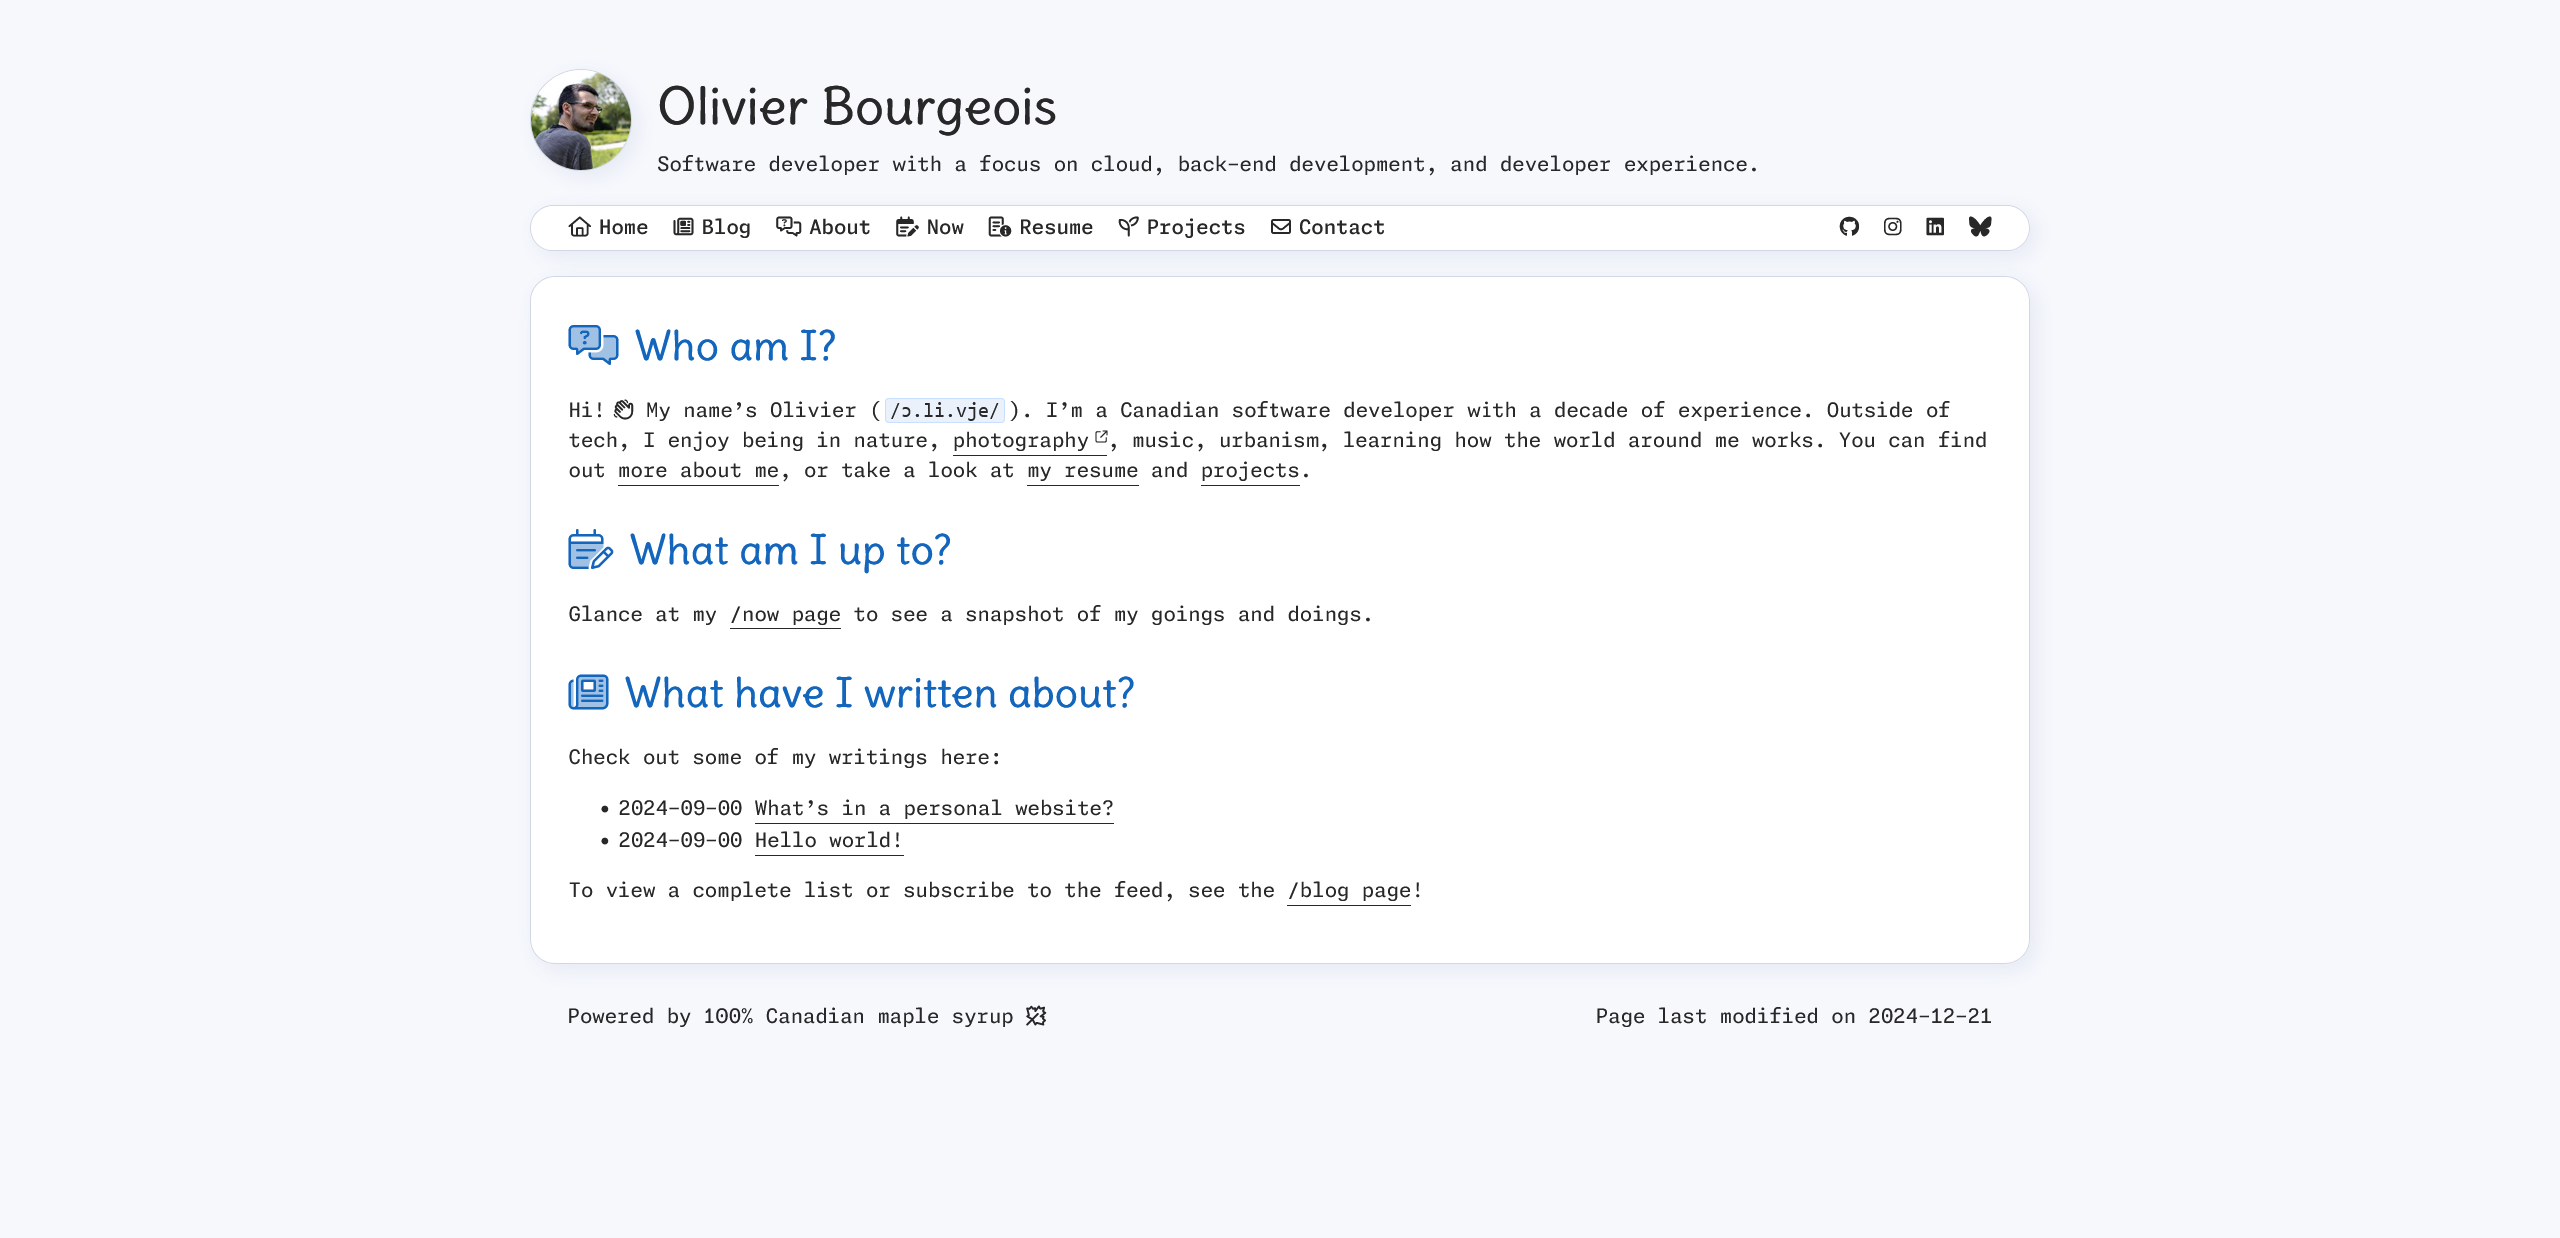
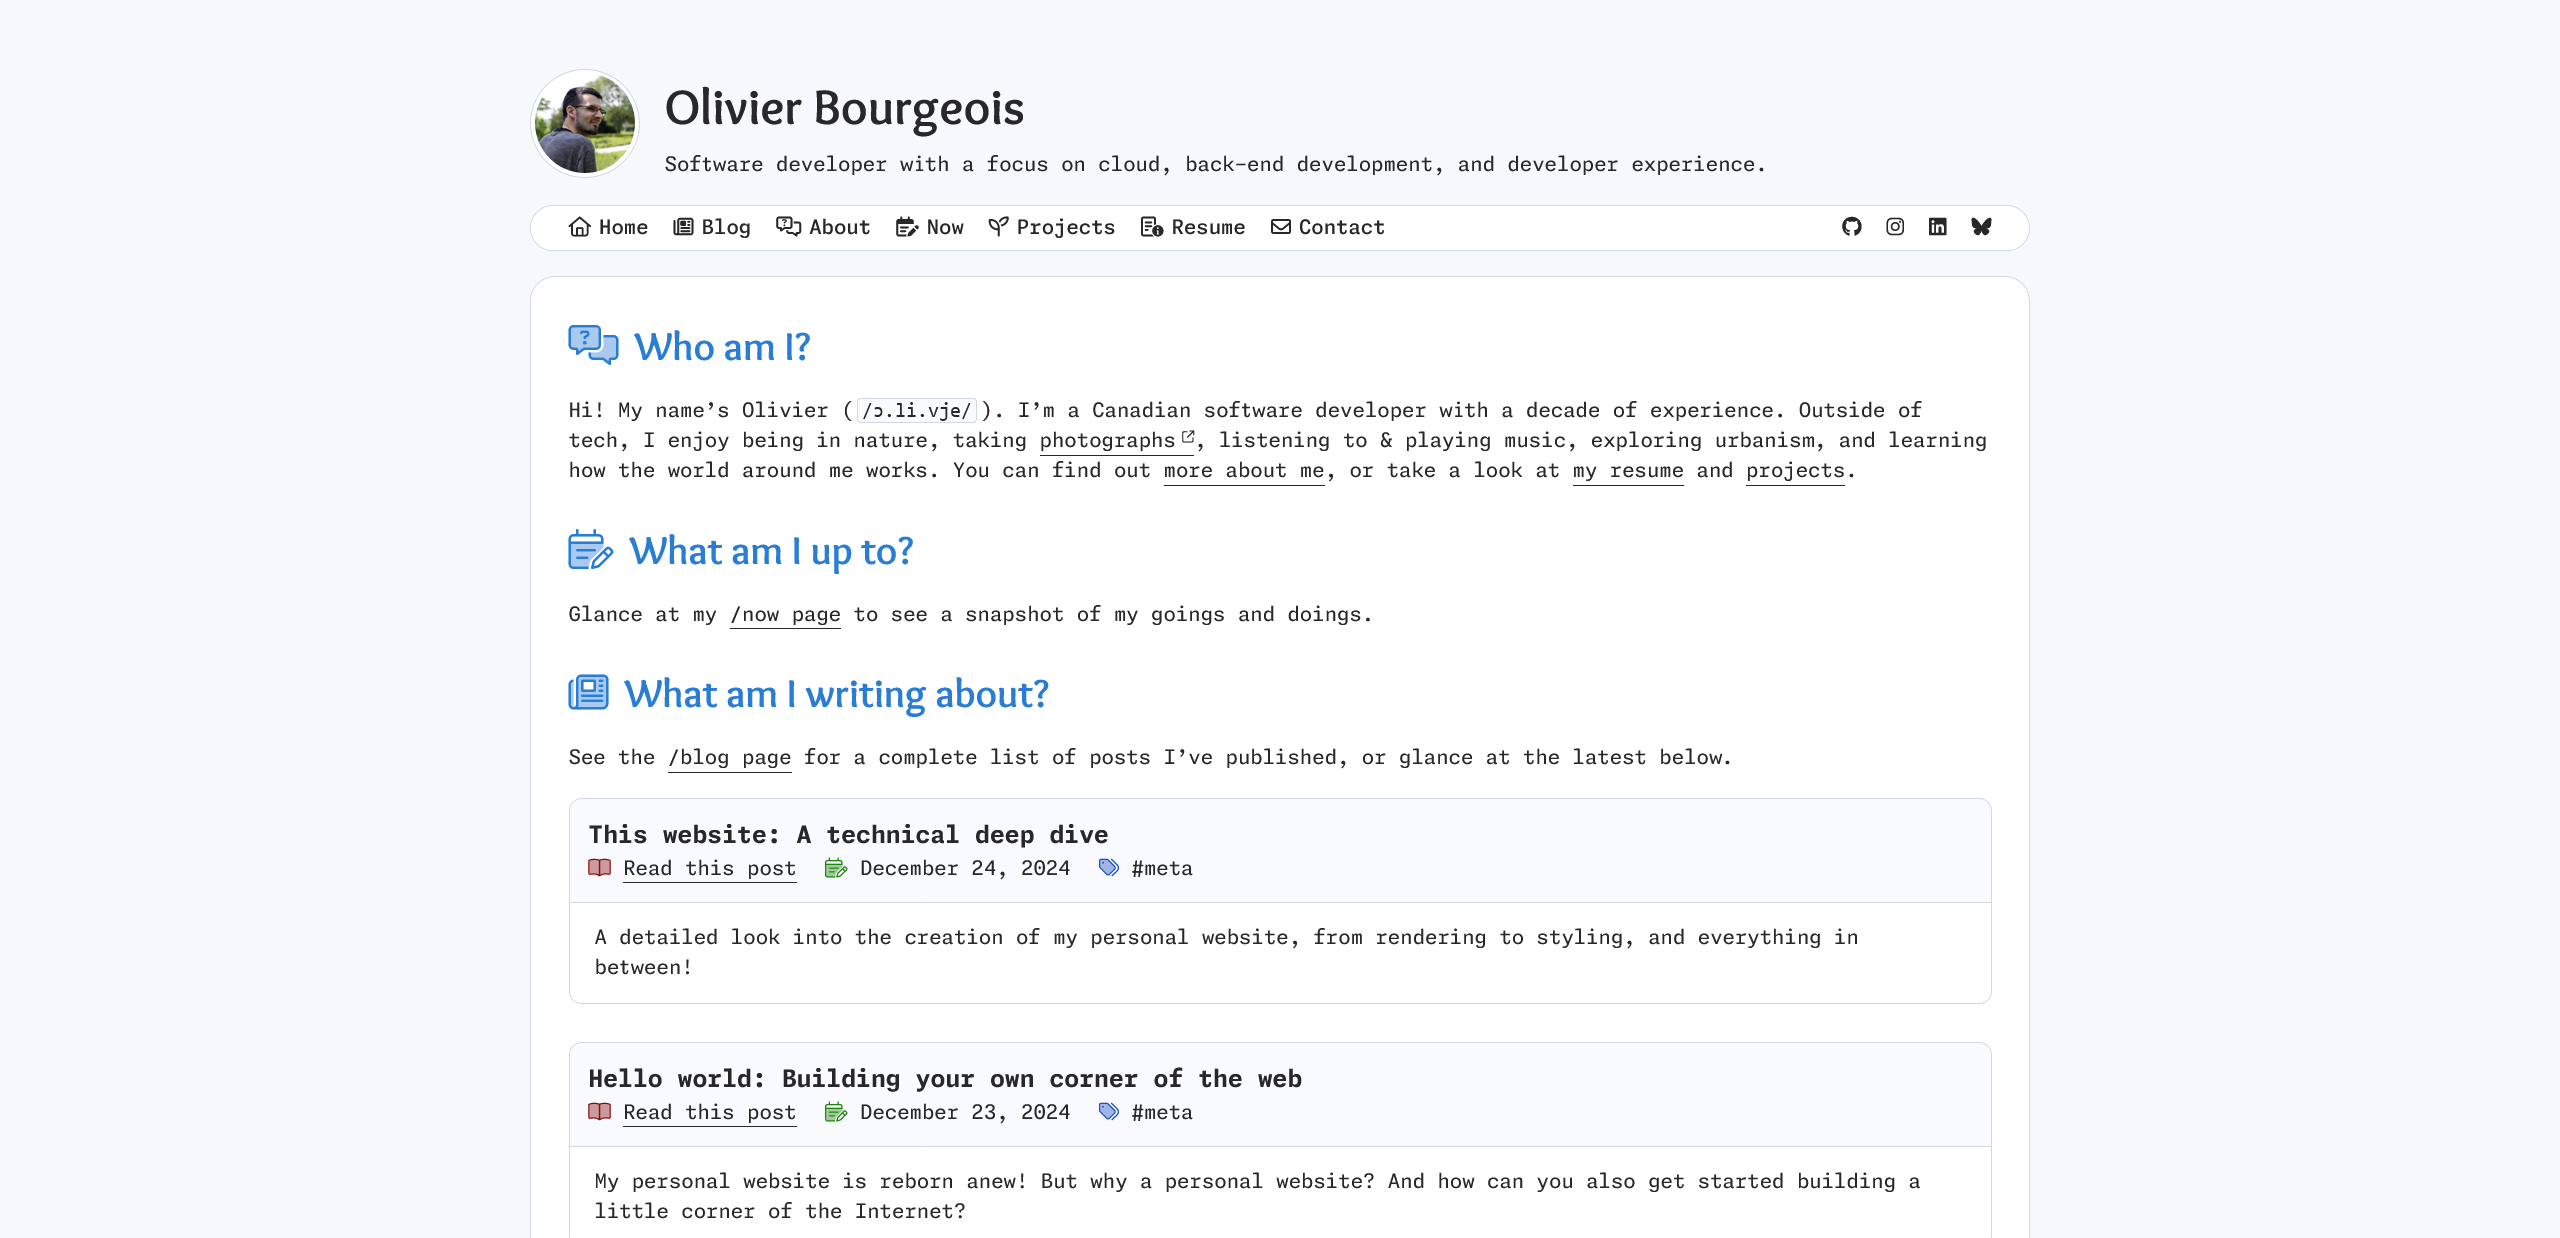
Tweak styling and text

diff --git a/templates/!prefix.html b/templates/!prefix.html
@@ -66,17 +66,17 @@
           <li><a href="/blog/">
             <i class="fa-regular fa-newspaper"></i><span class="d-sm-none ms-1">Blog</span></span>
           </a></li>
-          <li><a href="/resume/">
-            <i class="fa-regular fa-memo-circle-info"></i><span class="d-sm-none ms-1">Resume</span></span>
-          </a></li>
-          <li><a href="/projects/">
-            <i class="fa-regular fa-seedling"></i><span class="d-sm-none ms-1">Projects</span></span>
+          <li><a href="/about/">
+            <i class="fa-regular fa-messages-question"></i><span class="d-sm-none ms-1">About</span></span>
           </a></li>
           <li><a href="/now/">
             <i class="fa-regular fa-calendar-lines-pen"></i><span class="d-sm-none ms-1">Now</span></span>
           </a></li>
-          <li><a href="/about/">
-            <i class="fa-regular fa-messages-question"></i><span class="d-sm-none ms-1">About</span></span>
+          <li><a href="/projects/">
+            <i class="fa-regular fa-seedling"></i><span class="d-sm-none ms-1">Projects</span></span>
+          </a></li>
+          <li><a href="/resume/">
+            <i class="fa-regular fa-memo-circle-info"></i><span class="d-sm-none ms-1">Resume</span></span>
           </a></li>
           <li><a href="/contact/">
             <i class="fa-regular fa-envelope"></i><span class="d-sm-none ms-1">Contact</span></span>

diff --git a/static/style.css b/static/style.css
@@ -181,10 +181,24 @@ pre {
   line-height: 1;
 }
 
-img {
-  max-width: 100%;
+p > img {
+  display: block;
+  max-width: 90%;
   height: auto;
+  margin-left: auto;
+  margin-right: auto;
+  margin-top: 30px;
+  margin-bottom: 30px;
+  border: 1px solid var(--borders-color);
   border-radius: 10px;
+}
+
+p > .img-caption {
+  display: block;
+  text-align: center;
+  margin-top: -25px;
+  margin-bottom: 25px;
+  font-size: 0.8em;
 }
 
 h1, h2, h3, h4, h5, h6 {

diff --git a/templates/blog.html b/templates/blog.html
@@ -3,7 +3,7 @@
   <div id="main-header">
     <p><a href="/blog/">Blog</a> / <b>{{ title_raw }}</b></p>
 
-    <p>“{{ description }}”</p>
+    <p>{{ description }}</p>
 
     <span class="me-2 no-wrap"><i class="fa-duotone fa-light fa-calendar-lines-pen color-green"></i>
     {{ published_formatted }}</span>

diff --git a/notes/meta/about.md b/notes/meta/about.md
@@ -1,5 +1,5 @@
 title: About
-modified: 2024-12-21
+modified: 2024-12-24
 ---
 
 ## <i class="fa-duotone fa-light fa-messages-question me-1"></i> About
@@ -125,30 +125,31 @@ Here's a very brief timeline of major events of my life. Non-exhaustive, of cour
 - **1994** (0y): **Born in Québec (QC)**.
 - **1997** (3y): **Moved near Shédiac (NB)**, where I'd stay for much of the next 20+ years.
 - **1999** (5y): **Started attending school**.
-- **2001** (7y): **Learned HTML** and made my first "websites" (coded entirely in Microsoft Notepad!)
+- **2001** (7y): Got my first computer (a beat-up Pentium 3 machine). **Learned HTML** and made my first "websites" (coded entirely in Microsoft Notepad!)
 - **2004** (10y): Around this point, I **wanted to become an astronaut** and got very interested in everything space-related.
 - **2005** (11y): **Started learning English** more in-depth.
 - **2006** (12y): **Started playing drums**, getting my first ever kit (an Alesis DM5-based one).
-- **2007** (13y): Also **started playing guitar**. Coincidentally, the Taylor I currently own (acquired second-hand) was built that year. **Learned C++** and got into programmation as a hobby.
+- **2007** (13y): Also **started playing guitar**. Coincidentally, the Taylor I went on to aquire a decade later was built that same year. **Learned C++** and got into programmation as a hobby.
 - **2008** (14y): **Graduaded from middle school** and **started highschool**. **Got into photography** as a hobby. At this point I thought I'd get into robotics or electronics as a career.
+- **2010** (16y): Attended my first **LAN party**. Later that year, I would **host my own**, a yearly tradition I kept up with friends for the following 11 years before moving out of the province.
 - **2011** (17y): **Started learning Japanese** on and off.
 
 <i class="fa-duotone fa-light fa-user-graduate"></i>
 **Entering university**
 
 - **2012** (18y): **Graduated from highschool**, **moved to Québec (QC) alone** to attend Université Laval in software engineering. Boarded my **first ever flight** (a two-seater Cessna 140).
-- **2014** (20y): **Transferred university** to Mount Allison University in NB (for a variety of reasons) to pursue computer science. Climbed my **first 5k+ ft mountain** (Mount Katahdin, a hair short from being an ultra). **Went skydiving**.
-- **2015** (21y): Took my **first ever (commercial) flights**, visiting university friends in Calgary, Banff, Los Angeles, and Montreal.
+- **2014** (20y): **Transferred university** to Mount Allison University in NB (for a variety of reasons) to pursue computer science. Went to the **USA for the first time**. Climbed my **first 5k+ ft mountain** (Mount Katahdin in ME, a hair short from being an ultra). **Went skydiving**. Attended my **first big convention**, PAX East in Boston, MA.
+- **2015** (21y): Took my **first ever (commercial) flights**, visiting university friends in Calgary (AB), Banff (AB), Los Angeles (CA), and Montreal (QC).
 - **2016** (22y): Hired for my **first summer tech internship**, at EMC Corporation.
-- **2017** (23y): Spent **3 weeks traveling Western Europe** as my **first truly solo trip** (and first time being outside North America). Completed a second **summer internship at EMC** (now acquired by Dell).
+- **2017** (23y): Spent **3 weeks traveling Western Europe** as my **first truly solo trip** (and first time being outside North America). Completed a second **summer internship at EMC** (now acquired by Dell). Flew out to Mountain View (CA) for **interviews with Google**.
 
 <i class="fa-duotone fa-light fa-user-astronaut"></i>
 **Starting my career**
 
-- **2018** (24y): **Graduated from university**, spent **3 weeks in the Balkans solo**, and started working at Dell EMC full time.
-- **2019** (25y): Did **trips** to Boston, Seattle, Vancouver, and spent **2 weeks in the UK solo**.
+- **2018** (24y): **Graduated from university**, spent **3 weeks in the Balkans solo**, and started **working at Dell EMC full time**.
+- **2019** (25y): Did **trips** to Boston (MA), Seattle (WA), Vancouver (BC), and spent **2 weeks in the UK solo**.
 - **2020** (26y): Accepted an offer to **work at Google** in their developer relations team. Really **got into Final Fantasy XIV** while everyone was stuck home. Did a lot of **local roadtrips** in NB.
-- **2021** (27y): **Relocated to Waterloo (ON)** to work from the office in-person. Started working on and **released XIV ToDo**.
-- **2022** (28y): Visited New York City for the first time.
-- **2023** (29y): Attended my **first tech conference as a staff worker** (Google Cloud Next).
-- **2024** (30y): Started getting back into traveling, doing **trips** to Vancouver, Montreal, Boston, Utah, and spending **3 weeks in Japan**. Released a fully **revamped version of my website** (you're reading it now!)
+- **2021** (27y): Started working on and **released XIV ToDo**. **Relocated to Waterloo (ON)** to work from the Google office in-person.
+- **2022** (28y): Visited New York (NY) for the first time.
+- **2023** (29y): Attended my **first tech conference as a staff worker**, Google Cloud Next in San Francisco (CA).
+- **2024** (30y): Started getting back into traveling, doing **trips** to Vancouver (BC), Montreal (QC), Boston (MA), Salt Lake City (UT), and spending **3 weeks in Japan**. Released a fully **revamped version of my website** (you're reading it now!)

diff --git a/notes/meta/now.md b/notes/meta/now.md
@@ -14,20 +14,20 @@ The idea for this page was inspired by [Derek Siver's](https://sive.rs/now){:tar
 _Updated as of December 21, 2024._
 
 <i class="fa-duotone fa-light fa-location-dot color-red"></i>
-Living in **Waterloo, Canada**.
+Living in **Waterloo (ON)** in Canada.
 
 <i class="fa-duotone fa-light fa-briefcase color-blue"></i>
 Working full-time at **Google** in the **Developer Relations** team in Google Cloud. And I just passed my 4th workversary a few weeks ago!
 
 <i class="fa-duotone fa-light fa-plane-departure color-aqua"></i>
-Most recently arrived from a 3-weeks vacation in **Japan** and a 1-week trip in **Salt Lake City**. Photos incoming soon hopefully!
+Most recently arrived from a 3-weeks vacation in **Japan** and a 1-week trip in **Salt Lake City (UT)**. Photos incoming soon hopefully!
 
 <i class="fa-duotone fa-light fa-seedling color-green"></i>
 Still working on my side project **[XIV ToDo](https://xivtodo.com){:target="_blank"}** regularly, and finally
-having some time to finish up my **[personal website revamp](/personal-website/)** (you're currently looking at it!)
+having some time to finish up my **[personal website revamp](/hello-world/)** (you're currently looking at it!)
 
 <i class="fa-duotone fa-light fa-hat-santa color-red"></i>
-Spending the **winter holidays** working on side projects and visiting friends & family in Québec, Canada.
+Spending the **winter holidays** working on side projects and visiting friends & family in **Québec (QC)**.
 
 <i class="fa-duotone fa-light fa-book color-purple"></i>
 Currently **reading**...

diff --git a/notes/meta/index.md b/notes/meta/index.md
@@ -4,11 +4,7 @@ template: index
 
 ## <i class="fa-duotone fa-light fa-messages-question me-1"></i>Who am I?
 
-Hi!<i class="fa-regular fa-hand-wave ms-1"></i> My name's Olivier (`/ɔ.li.vje/`).
-I'm a Canadian software developer with a decade of experience.
-Outside of tech, I enjoy being in nature, taking [photographs](https://www.instagram.com/olivi_eh/){:target="_blank"},
-listening to & playing music, exploring urbanism, and learning how the world around me works.
-You can find out [more about me](/about/), or take a look at [my resume](/resume/) and [projects](/projects/).
+Hi! My name's Olivier (`/ɔ.li.vje/`). I'm a Canadian software developer with a decade of experience. Outside of tech, I enjoy being in nature, taking [photographs](https://www.instagram.com/olivi_eh/){:target="_blank"}, listening to & playing music, exploring urbanism, and learning how the world around me works. You can find out [more about me](/about/), or take a look at [my resume](/resume/) and [projects](/projects/).
 
 ## <i class="fa-duotone fa-light fa-calendar-lines-pen me-1"></i>What am I up to?
 
@@ -16,4 +12,4 @@ Glance at my [/now page](/now/) to see a snapshot of my goings and doings.
 
 ## <i class="fa-duotone fa-light fa-newspaper me-1"></i>What am I writing about?
 
-See the [/blog page](/blog/) for a complete list of posts I've published, or glance at the latest ones:
+See the [/blog page](/blog/) for a complete list of posts I've published, or glance at the latest below.
